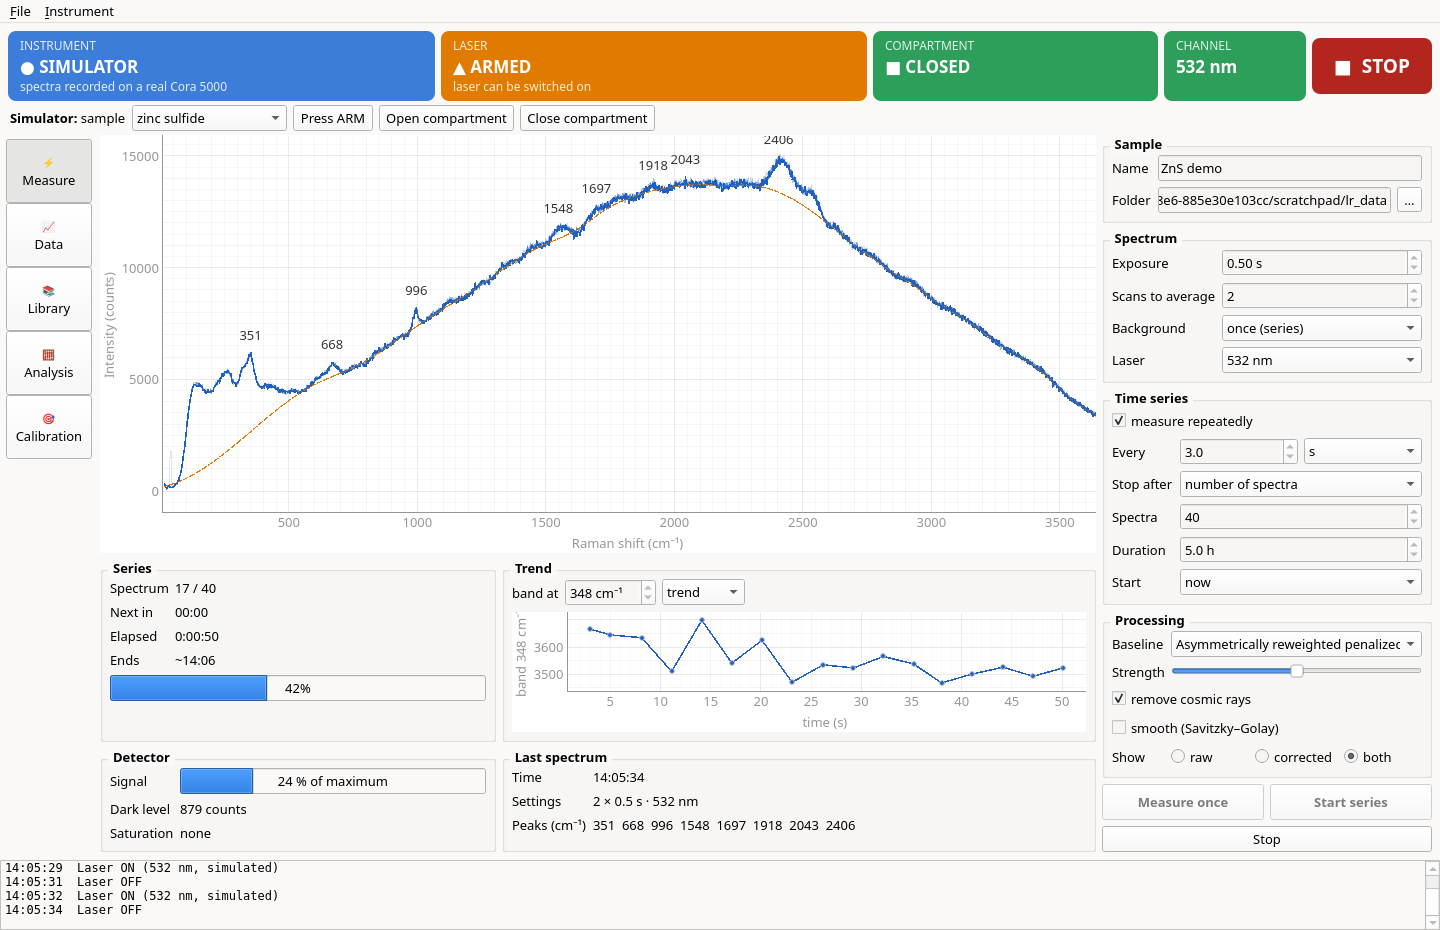
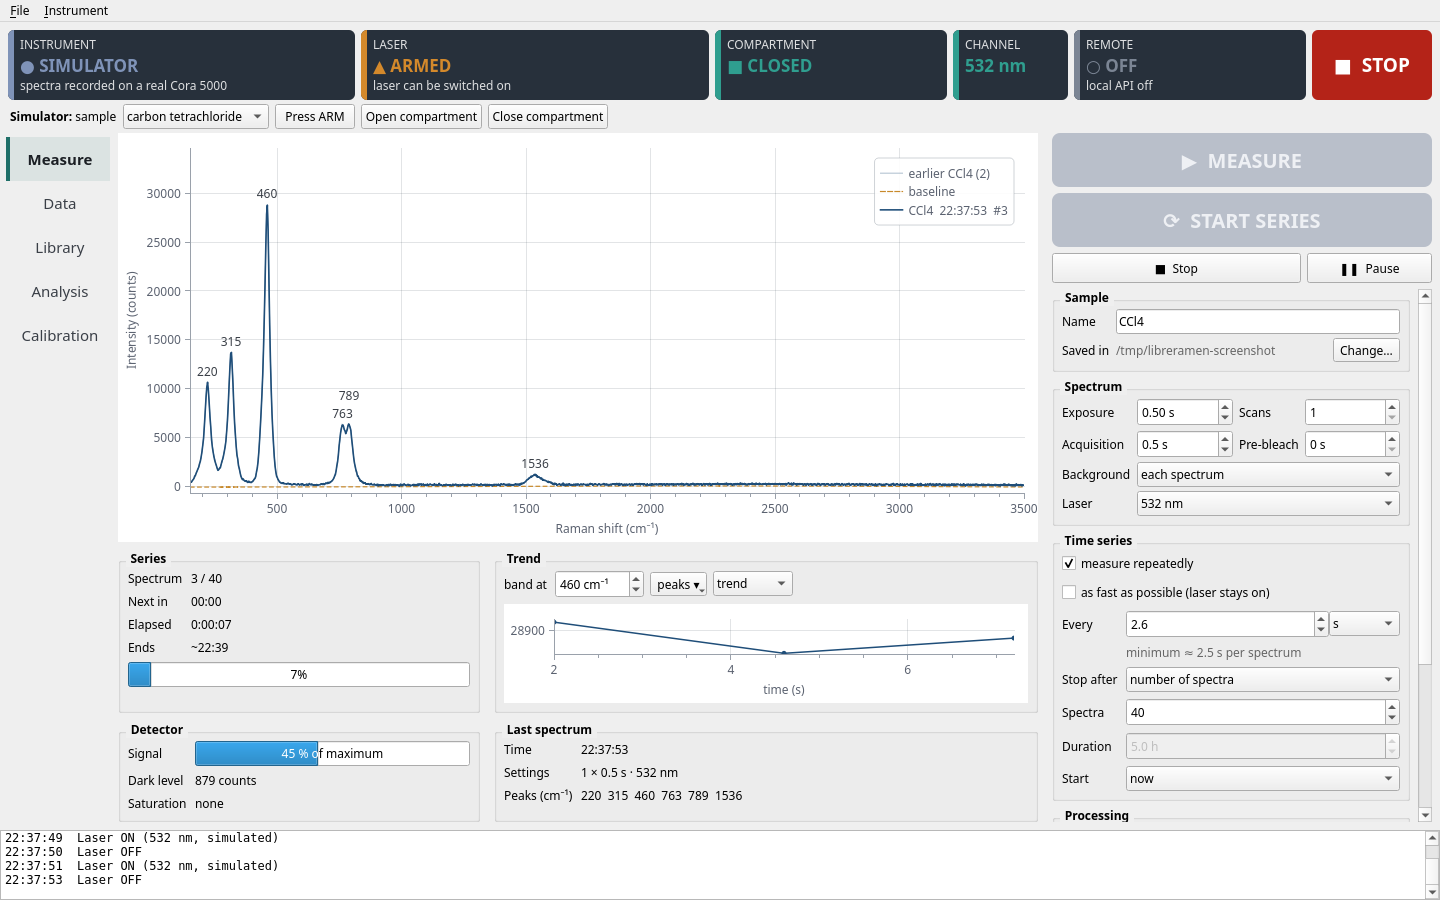
Merge Analysis 'Peak trends' tab; README: status 0.2.0, new screenshots of the C++ app
Claude-Session: https://claude.ai/code/session_01LPtdCrt3g1sjJpyTqP9zza

diff --git a/README.md b/README.md
@@ -9,11 +9,16 @@ vendor software lacks: scheduled scans, time series and calibration against comm
 *LibreRamen is an independent project, not affiliated with or endorsed by Anton Paar or BaySpec.
 Product names are used only to describe compatibility.*
 
-**Status: early.** The USB protocol is decoded and the engine (`libreramen` package plus command line)
-measures spectra and time series from Linux at 532 nm; 1064 nm works but its axis isn't verified yet. See [PROTOCOL.md](PROTOCOL.md) for everything known so far. The scripts here are test
-tools, not the finished program.
+**Status: 0.2.0.** The C++/Qt 6 application (`cpp/`) is the main program: measurement (single spectra and
+time series with a laser watchdog), Data (overlay, waterfall, heat map, peak fitting, export to CSV, JCAMP-DX,
+SPC), Library (SQLite, matching), Analysis (PCA, EFA, MCR-ALS, peak trends with kinetics, computed spectra
+from Gaussian/ORCA/xtb/...), Calibration (standards wizard), a local API and an MCP server. Verified on the
+real instrument at 532 nm (C++: Windows 11; Python reference: Linux and Windows 11); 1064 nm is untested (faulty channel on the development
+unit). The Python package `libreramen` is the reference implementation. See [PROTOCOL.md](PROTOCOL.md).
 
-![LibreRamen measuring a time series (simulator, ZnS)](docs/screenshot-measure.png)
+![LibreRamen measuring a time series (simulator)](docs/screenshot-measure.png)
+
+![Peak trends: fitted band areas vs time with kinetic fits](docs/screenshot-trends.png)
 
 ## Install
 
